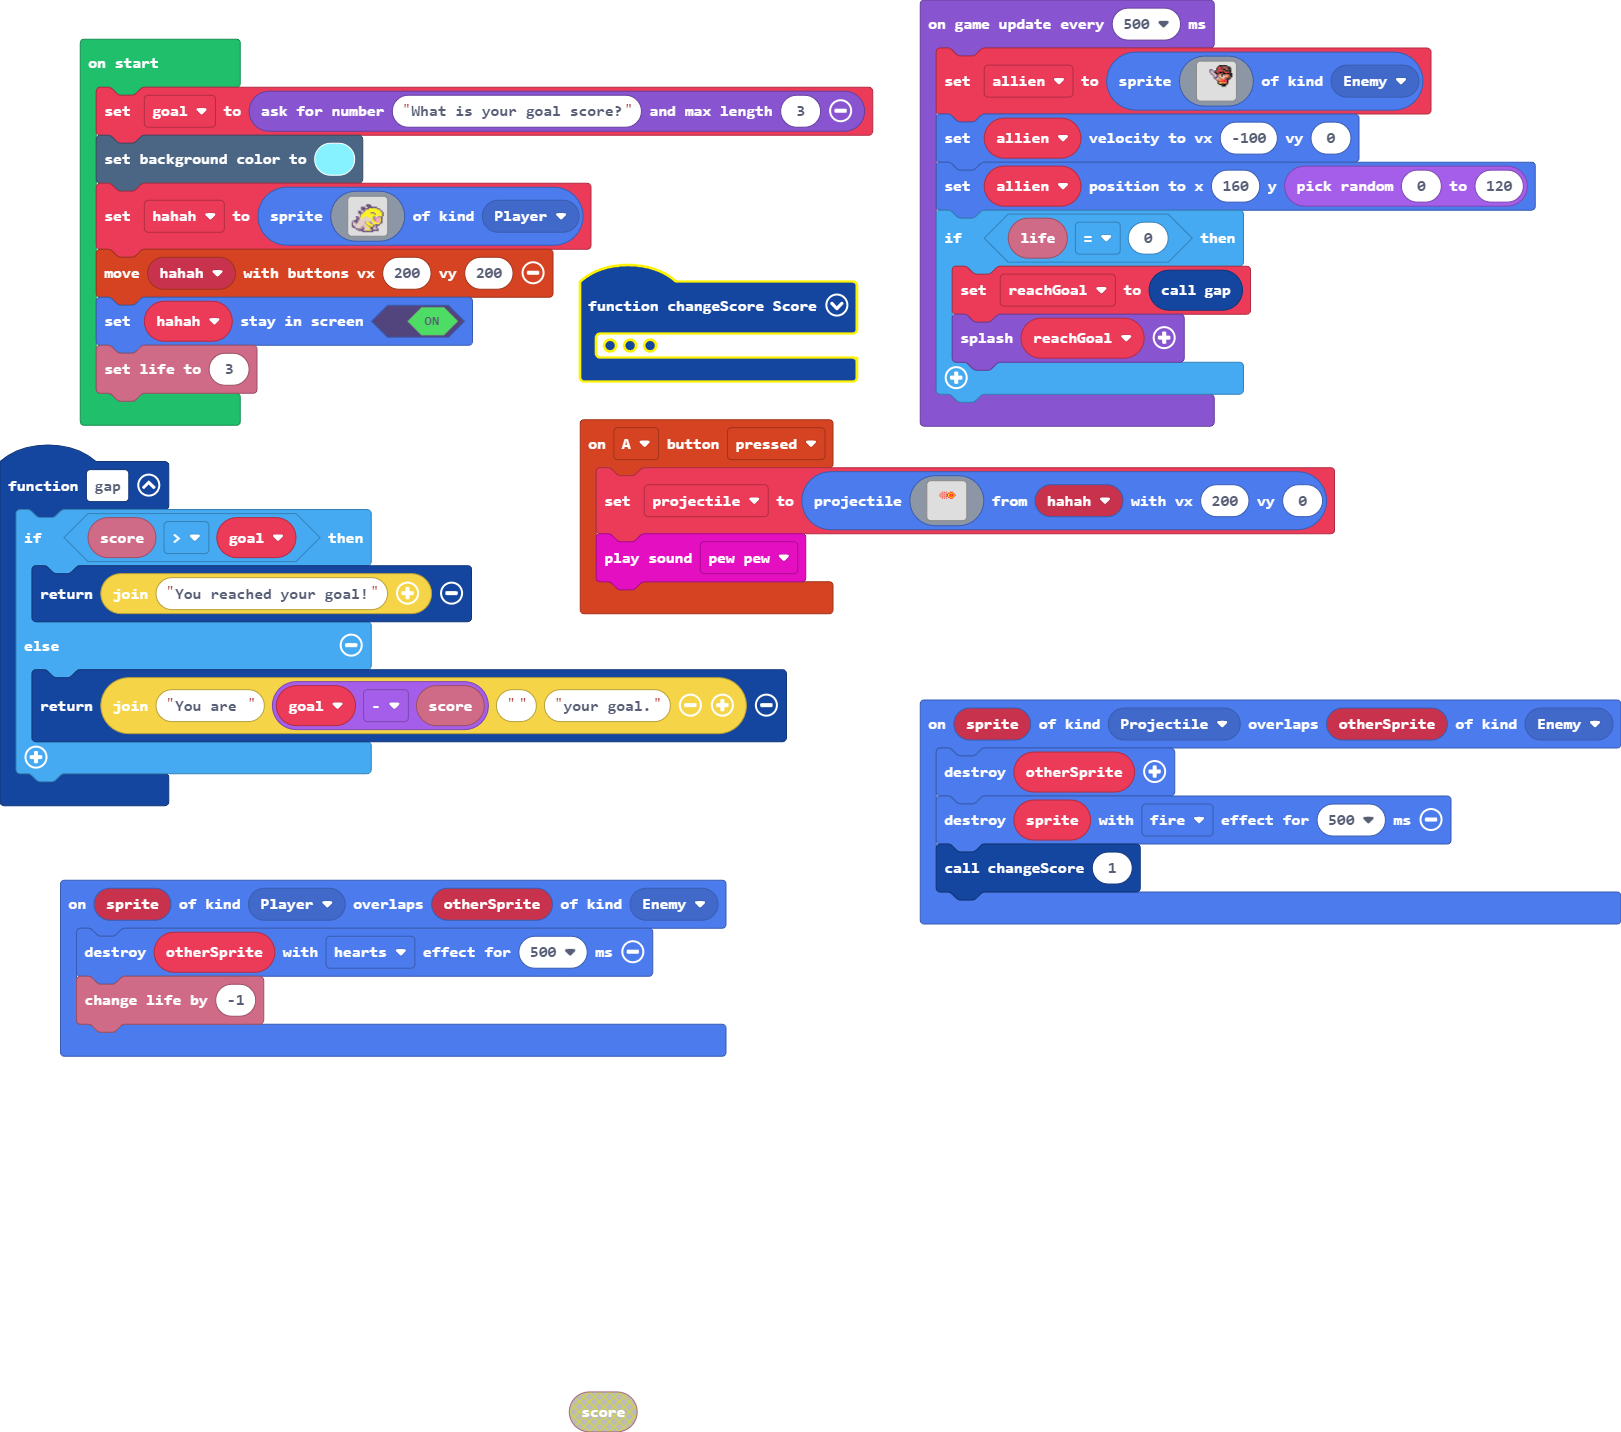
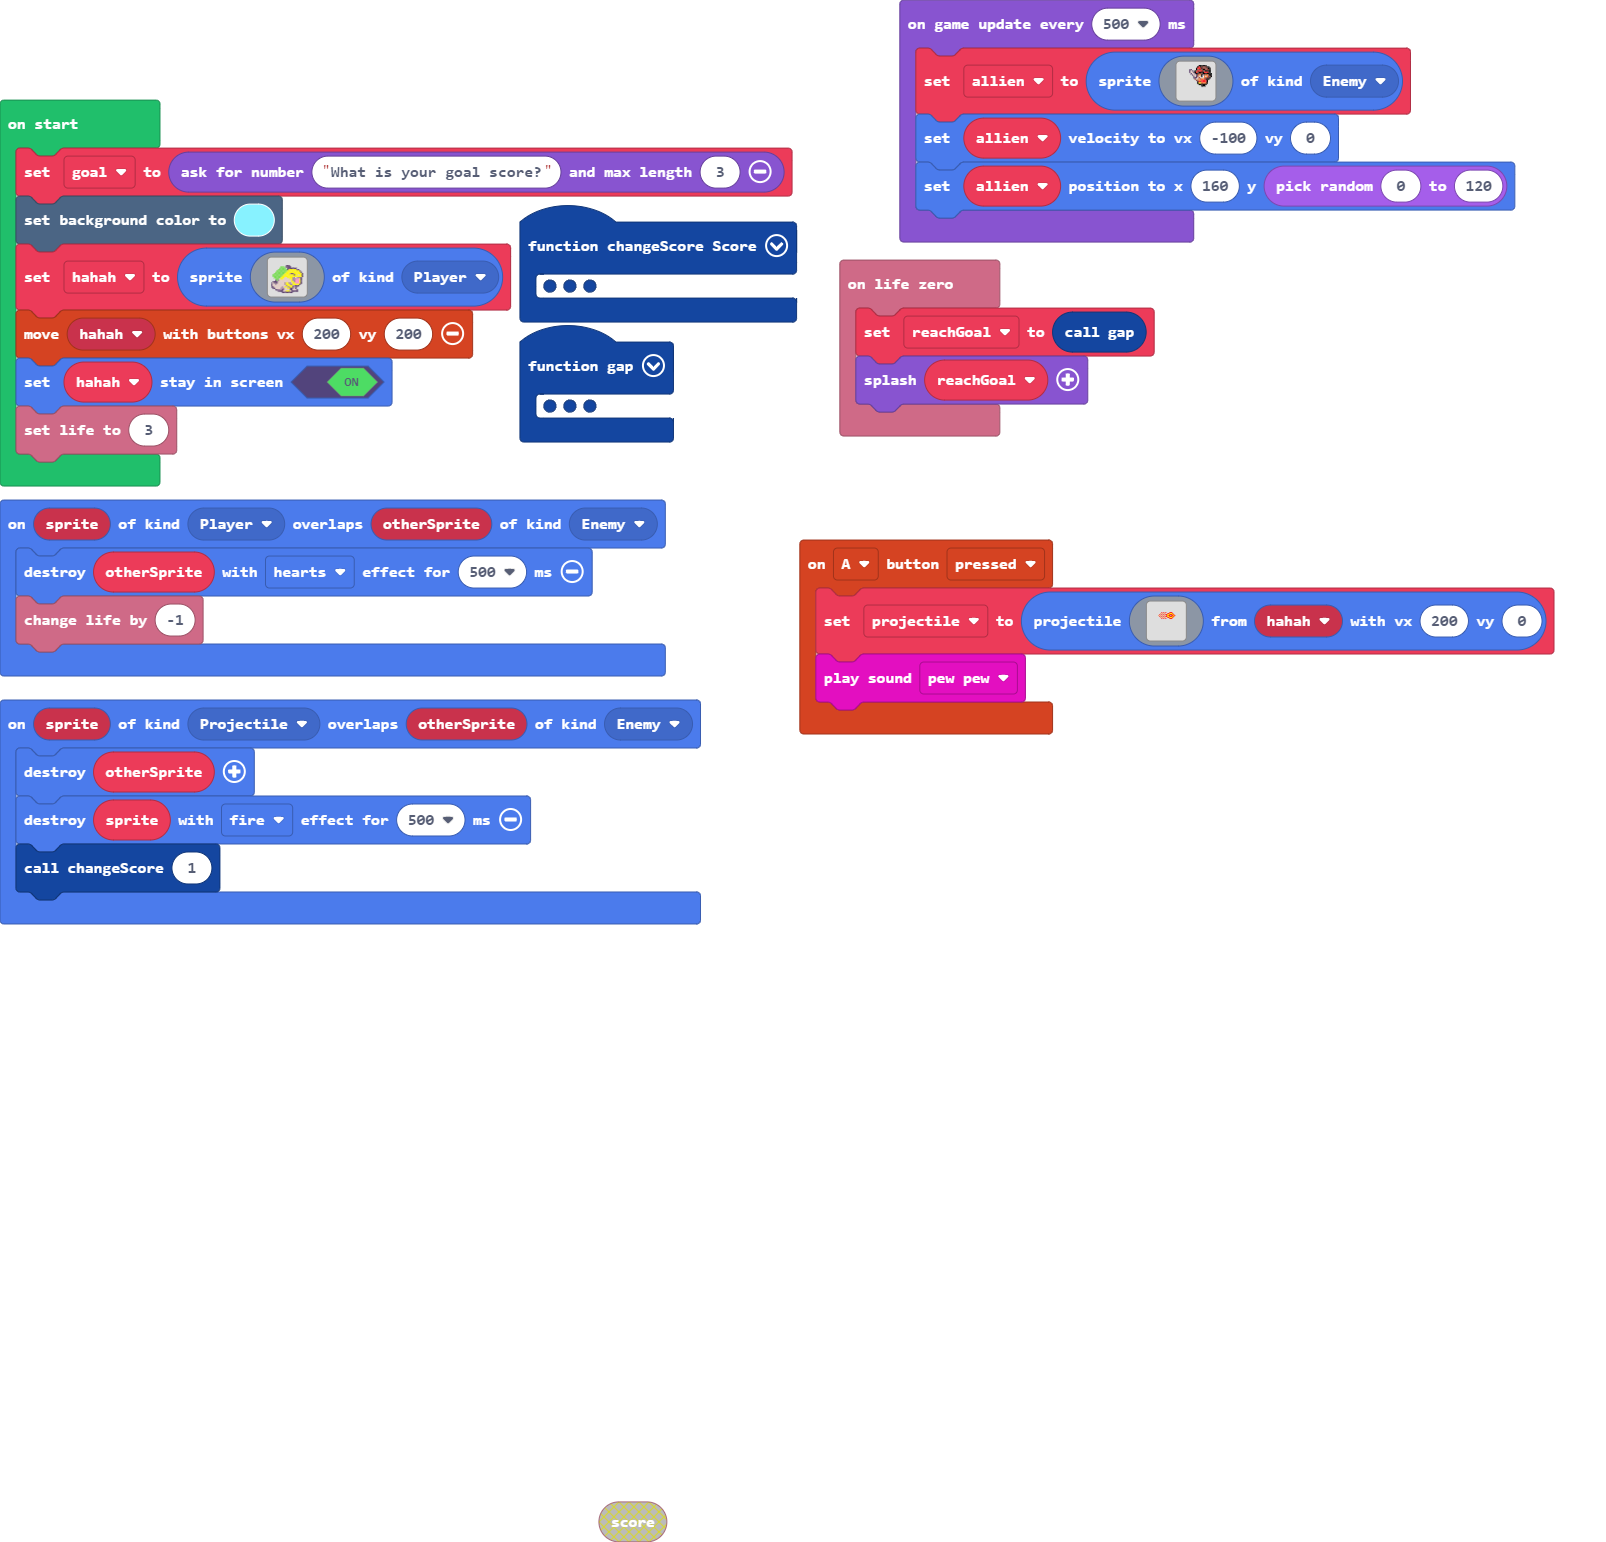
Update main.blocks, main.ts

diff --git a/main.ts b/main.ts
@@ -39,11 +39,15 @@ function changeScore (Score: number) {
     info.changeScoreBy(Score)
     music.beamUp.play()
 }
+info.onLifeZero(function () {
+    reachGoal = gap()
+    game.splash(reachGoal)
+})
 function gap () {
-    if (info.score() > goal) {
+    if (info.score() > goal || info.score() == goal) {
         return "You reached your goal!"
     } else {
-        return "You are " + (goal - info.score()) + "" + "your goal."
+        return "You are " + (goal - info.score()) + " " + "away from your goal."
     }
 }
 sprites.onOverlap(SpriteKind.Projectile, SpriteKind.Enemy, function (sprite, otherSprite) {
@@ -55,8 +59,8 @@ sprites.onOverlap(SpriteKind.Player, SpriteKind.Enemy, function (sprite, otherSp
     otherSprite.destroy(effects.hearts, 500)
     info.changeLifeBy(-1)
 })
-let reachGoal = ""
 let allien: Sprite = null
+let reachGoal = ""
 let projectile: Sprite = null
 let hahah: Sprite = null
 let goal = 0
@@ -67,17 +71,17 @@ hahah = sprites.create(img`
     ........................
     ........................
     ...........ccc..........
-    ...........cccc.........
-    .......ccc..ccccccc.....
-    .......cccccc555555cc...
-    ........ccb5555555555c..
-    .....cc..b555555555555c.
-    .....cccb55555bcc555555c
-    ......cb555555555c55d55c
-    ......b5555555555555555c
-    ...cc.b555dd5555bb1bbbc.
-    ....ccd55ddddd55bbb335c.
-    ...ccbddddddddd5bb3335c.
+    .......777.cccc.........
+    ......77777.ccccccc.....
+    .....7777777c555555cc...
+    ....77777777555555555c..
+    ...7777777755555555555c.
+    ..777777775555bcc555555c
+    .7777777755555555c55d55c
+    .7777777555555555555555c
+    ..77777555dd5555bb1bbbc.
+    ...777d55ddddd55bbb335c.
+    ...c7bddddddddd5bb3335c.
     .ccccdddddddddd55b3335c.
     cdcccdddddb55bbd553335c.
     cddbddddddb555bb55555c..
@@ -120,8 +124,4 @@ game.onUpdateInterval(500, function () {
         `, SpriteKind.Enemy)
     allien.setVelocity(-100, 0)
     allien.setPosition(160, randint(0, 120))
-    if (info.life() == 0) {
-        reachGoal = gap()
-        game.splash(reachGoal)
-    }
 })
